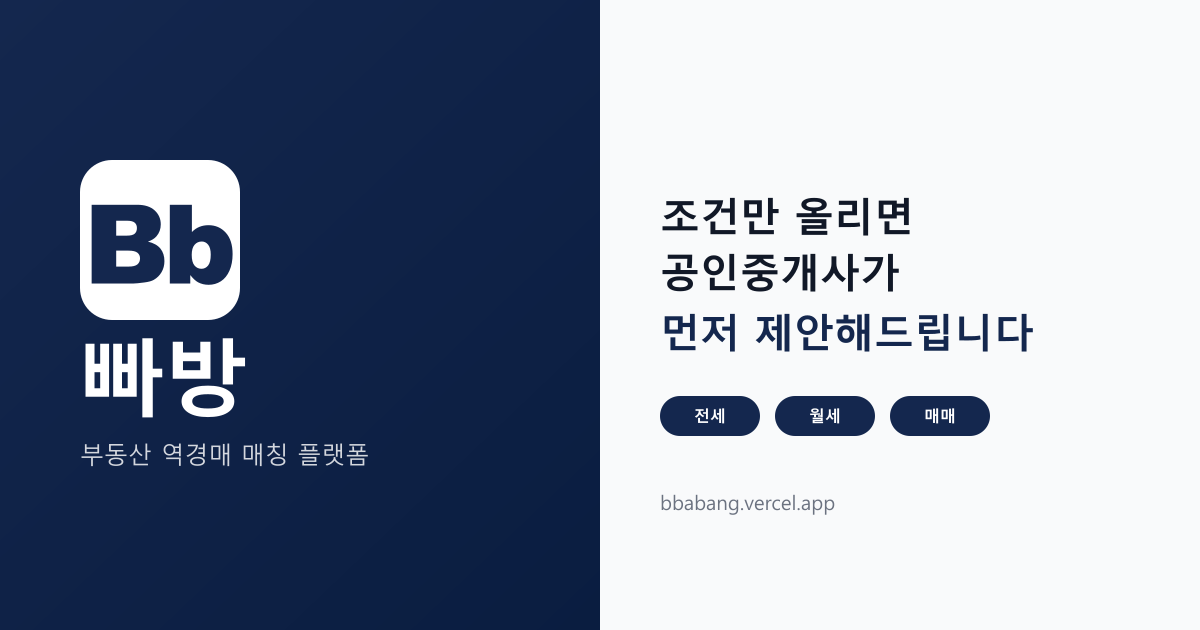
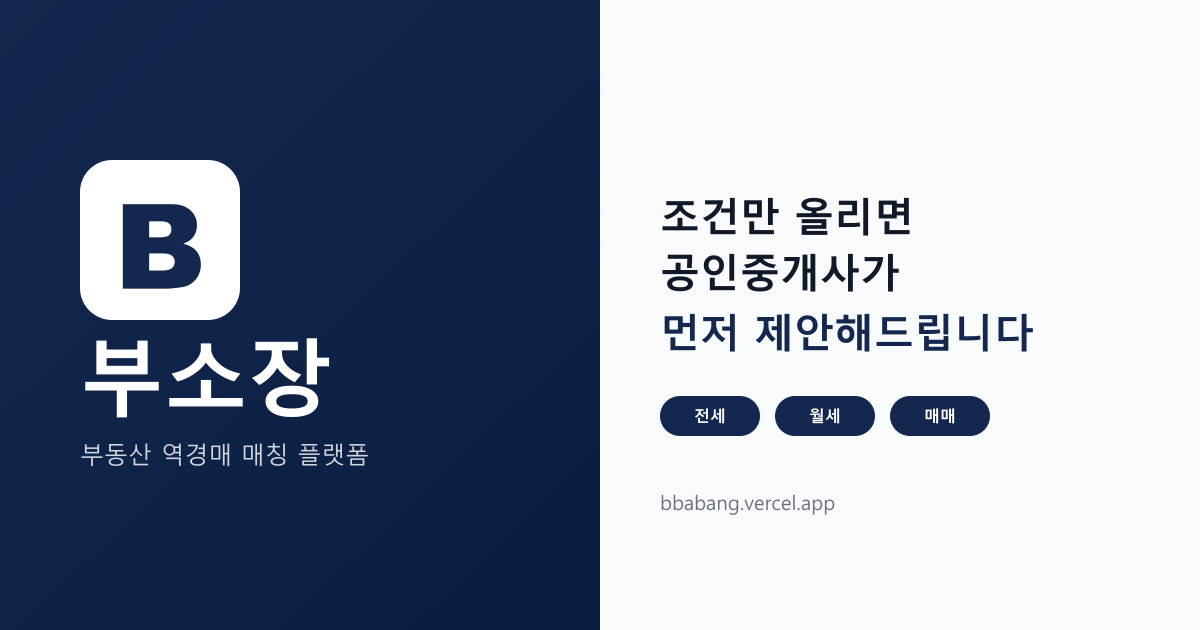
feat(brand): 부소장 아이콘 B — 전 채널 브랜드 자산 교체 (2단계: 시각 자산)
기존 Bb → 대문자 B (네이비 #14274e 유지, 사장님 확정안).
PWA 체크리스트대로 안드로이드+iOS 두 채널 모두 갱신:

- 안드로이드: icon.svg 원본 교체, icon-192/512 sharp 재생성,
  favicon.ico(32px PNG ICO 래핑), manifest 캐시버스터 v2→v3
- iOS: apple-touch-icon 180/167/152 재생성 (풀블리드 정사각, iOS 자체 마스킹)
- OG: og-image.svg 부소장·B로 갱신 + PNG 재생성 (카톡 호환)
- sw.js VERSION busojang-v1→v2 (구 아이콘 캐시 무효화)

검증: 생성 PNG 실렌더 확인(B 아이콘·OG 썸네일), 빌드 통과.

Changed region(s): [[0.0617, 0.5429, 0.2775, 0.6635], [0.0617, 0.3016, 0.2158, 0.4825]]

diff --git a/src/app/manifest.ts b/src/app/manifest.ts
@@ -12,31 +12,31 @@ export default function manifest(): MetadataRoute.Manifest {
     orientation: 'portrait',
     icons: [
       {
-        src: '/icon-192.png?v=2',
+        src: '/icon-192.png?v=3',
         sizes: '192x192',
         type: 'image/png',
         purpose: 'any',
       },
       {
-        src: '/icon-192.png?v=2',
+        src: '/icon-192.png?v=3',
         sizes: '192x192',
         type: 'image/png',
         purpose: 'maskable',
       },
       {
-        src: '/icon-512.png?v=2',
+        src: '/icon-512.png?v=3',
         sizes: '512x512',
         type: 'image/png',
         purpose: 'any',
       },
       {
-        src: '/icon-512.png?v=2',
+        src: '/icon-512.png?v=3',
         sizes: '512x512',
         type: 'image/png',
         purpose: 'maskable',
       },
       {
-        src: '/favicon.ico?v=2',
+        src: '/favicon.ico?v=3',
         sizes: '48x48',
         type: 'image/x-icon',
       },

diff --git a/public/sw.js b/public/sw.js
@@ -7,7 +7,7 @@
 // - navigate 요청 실패 시에만 offline.html fallback
 // - 푸시 알림 / 클릭 처리
 
-const VERSION = 'busojang-v1'
+const VERSION = 'busojang-v2'
 const STATIC_CACHE = `${VERSION}-static`
 const IMAGE_CACHE = `${VERSION}-images`
 const OFFLINE_URL = '/offline.html'
